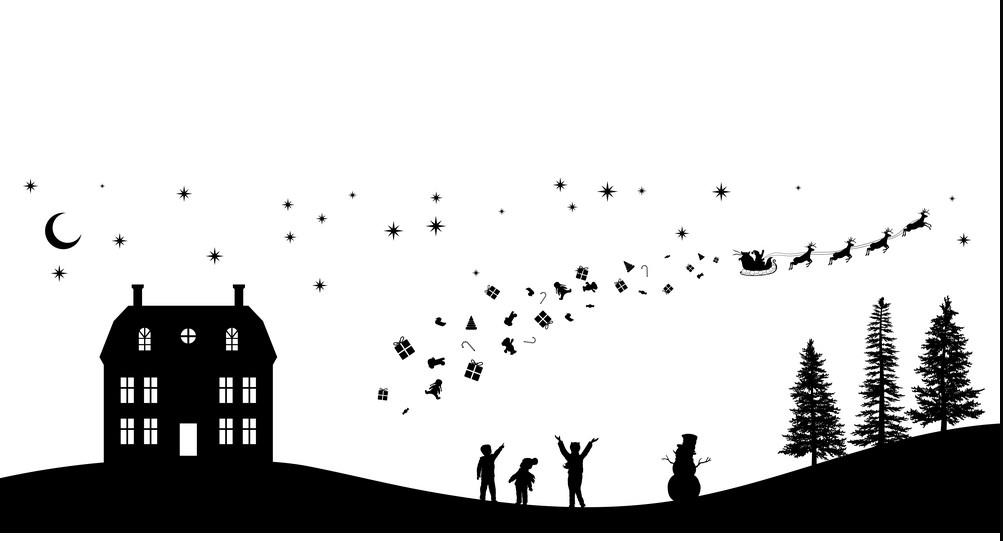
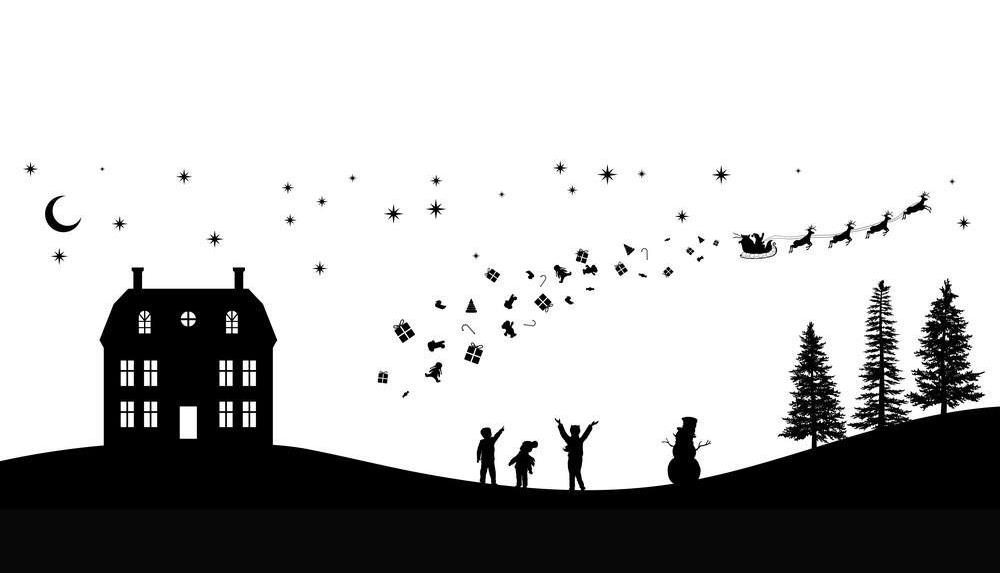
First version of mainView Complited
- background display fixed
- photo size adapted to mobile screen size

diff --git a/WhosYourSanta/wwwroot/css-santa/santa-MainView.css b/WhosYourSanta/wwwroot/css-santa/santa-MainView.css
@@ -1,42 +1,20 @@
 
 
-.bacground-image{
-    position: fixed;
-    /* The image used */
-    background-image: url("../img/panorama01.jpg");
-     /*Add the blur effect */
-    filter: blur(8px);
-    -webkit-filter: blur(8px);
-   /*  Full height*/ 
-    width: 100%;
-    height: 80%;
-    top: 70px;
-  /*   Center and scale the image nicely */
-    background-position: center;
-    background-repeat: no-repeat;
-    background-size: cover;
-    background-size: 100% auto;
- 
-}
-
-.bacground-image222 {
+.bacground-image {
     background: url("../img/panorama01.jpg") no-repeat center center fixed;
-    position:fixed;
+    position: fixed;
     background-size: cover;
     height: 100%;
+    width: 100%;
     overflow: hidden;
+    /*Add the blur effect */
+    filter: blur(8px);
+    -webkit-filter: blur(8px);
 }
 
 .mainView-container {
     width: 100%;
     height: 80vh;
-/*    background-image: url(../img/panorama01.jpg);
-    background-repeat: no-repeat;
-    background-size: cover;
-    background-position: center;
-    filter: blur(8px);
-    -webkit-filter: blur(8px);*/
-    /*background-size: auto 100%;*/
 }
 
 /* Position text in the middle of the page/image */
@@ -124,4 +102,12 @@
 
 .card-header, .card-footer {
     background-color: lightgrey;
+}
+
+/*Mobie screen*/
+@media only screen and (max-width: 600px) {
+    .img-lottery-centered {
+        width: 90%;
+        height:auto;
+    }
 }
